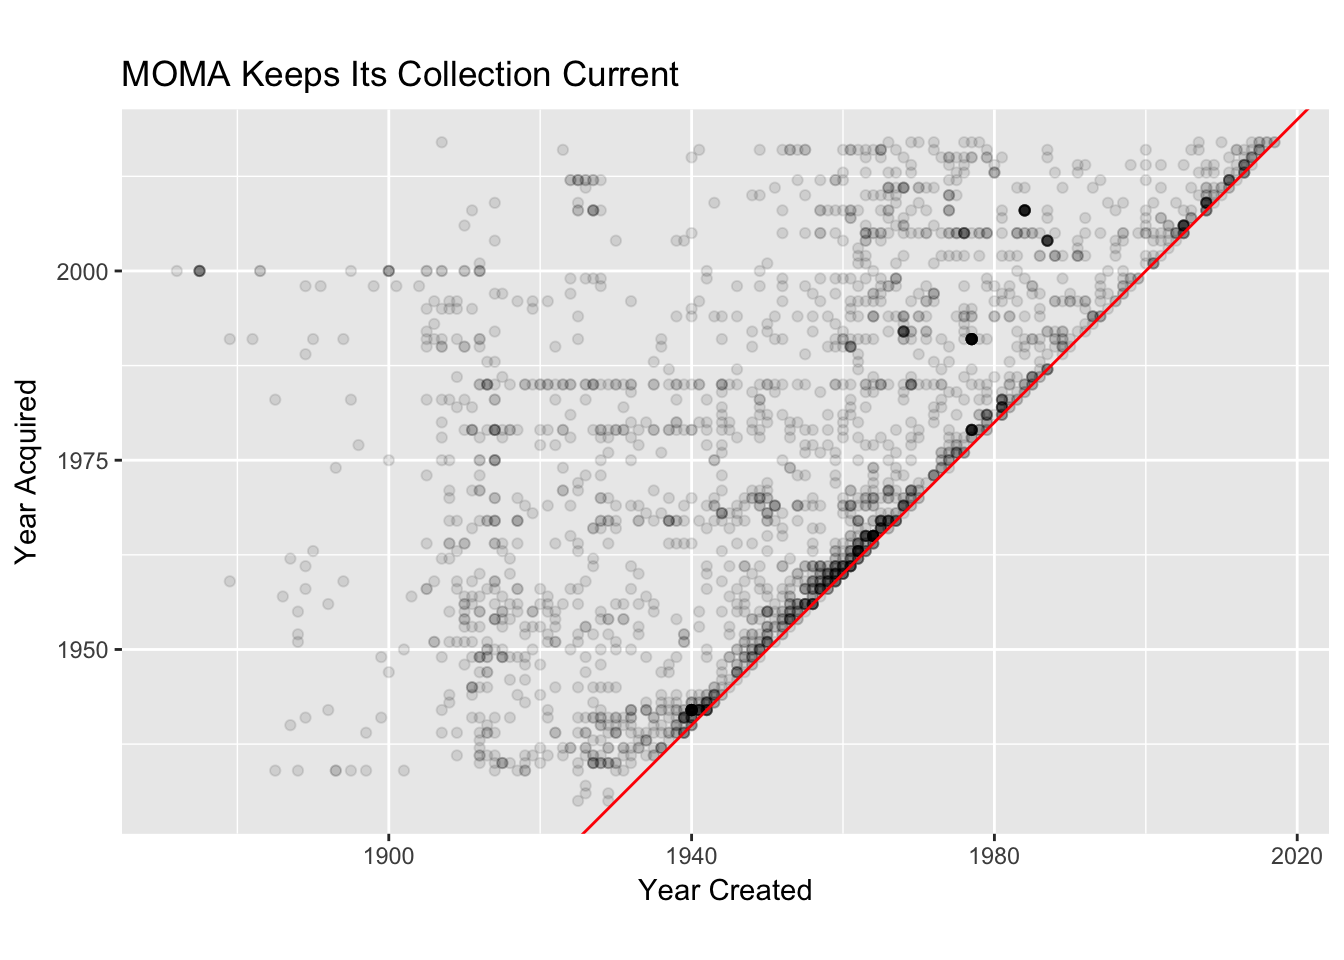
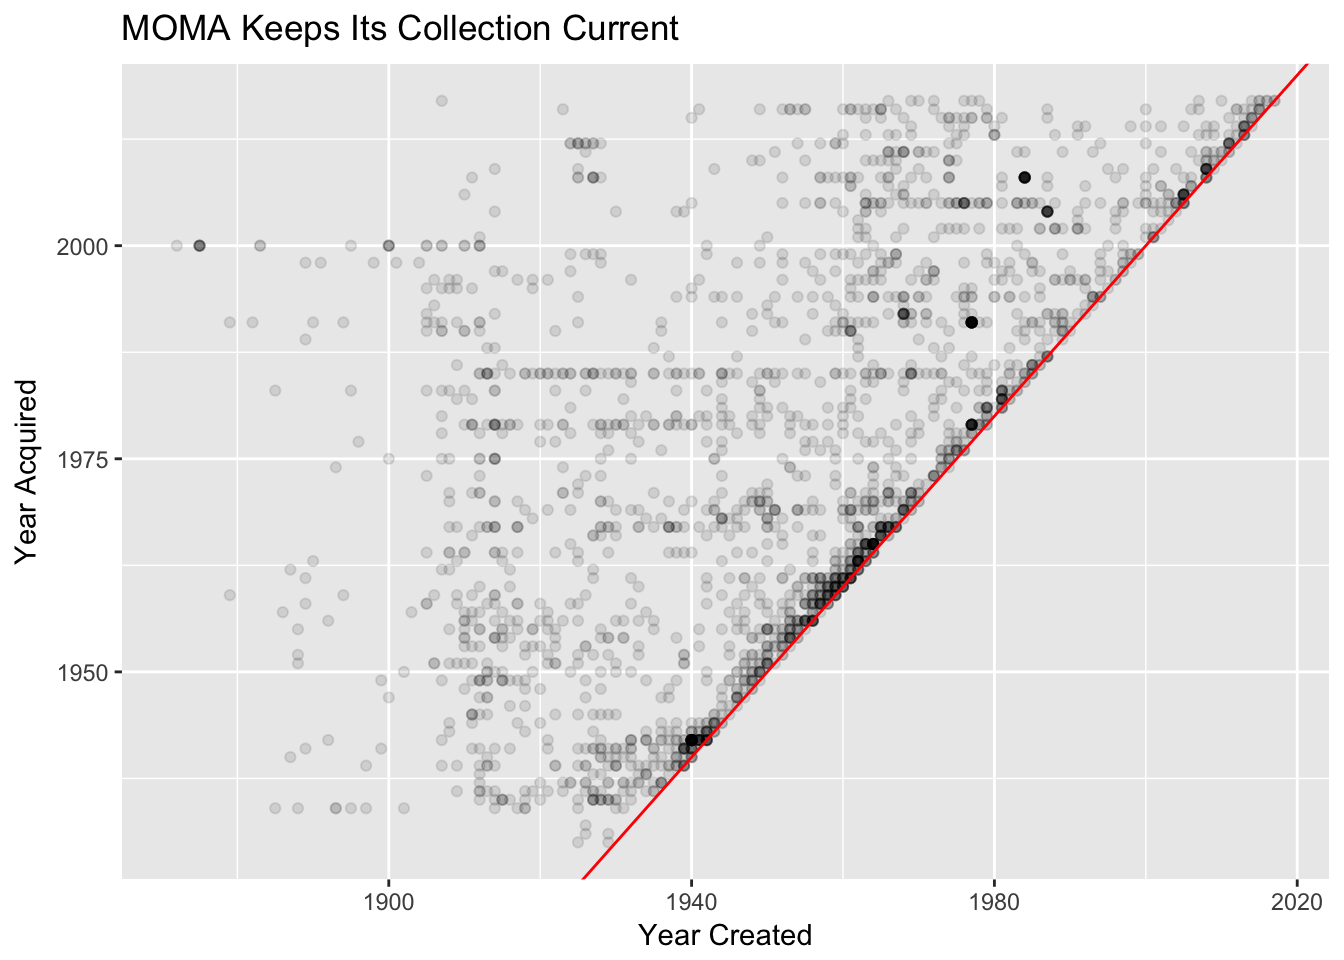
lab 02 moma final

diff --git a/02-moma.html b/02-moma.html
@@ -494,6 +494,7 @@ $ department        &lt;chr&gt; &quot;Painting &amp; Sculpture&quot;, &quot;Pain
 <ul>
 <li>How many distinct artists are there?</li>
 </ul>
+<p>Try <code>dplyr::distinct</code>.</p>
 <div class="sourceCode"><pre class="sourceCode r"><code class="sourceCode r">moma <span class="op">%&gt;%</span><span class="st"> </span>
 <span class="st">  </span><span class="kw">distinct</span>(artist)</code></pre></div>
 <pre><code># A tibble: 989 x 1
@@ -517,6 +518,7 @@ $ department        &lt;chr&gt; &quot;Painting &amp; Sculpture&quot;, &quot;Pain
 <li>Which artist has the most paintings ever owned by <code>moma</code>?</li>
 <li>How many have there been?</li>
 </ul>
+<p>Try <code>dplyr::count</code>. Use <code>?count</code> to figure out how to sort the output.</p>
 <div class="sourceCode"><pre class="sourceCode r"><code class="sourceCode r">moma <span class="op">%&gt;%</span><span class="st"> </span>
 <span class="st">  </span><span class="kw">count</span>(artist, <span class="dt">sort =</span> <span class="ot">TRUE</span>)</code></pre></div>
 <pre><code># A tibble: 989 x 2
@@ -536,6 +538,7 @@ $ department        &lt;chr&gt; &quot;Painting &amp; Sculpture&quot;, &quot;Pain
 </div>
 <div id="in-what-year-were-the-most-paintings-acquired" class="section level2">
 <h2><span class="header-section-number">5.6</span> In what year were the most paintings acquired?</h2>
+<p>Try <code>dplyr::count</code>. Use <code>?count</code> to figure out how to sort the output.</p>
 <div class="sourceCode"><pre class="sourceCode r"><code class="sourceCode r">moma <span class="op">%&gt;%</span><span class="st"> </span>
 <span class="st">  </span><span class="kw">count</span>(year_acquired, <span class="dt">sort =</span> <span class="ot">TRUE</span>)</code></pre></div>
 <pre><code># A tibble: 88 x 2
@@ -555,6 +558,7 @@ $ department        &lt;chr&gt; &quot;Painting &amp; Sculpture&quot;, &quot;Pain
 </div>
 <div id="in-what-year-were-the-most-paintings-created" class="section level2">
 <h2><span class="header-section-number">5.7</span> In what year were the most paintings created?</h2>
+<p>Try <code>dplyr::count</code>. Use <code>?count</code> to figure out how to sort the output.</p>
 <div class="sourceCode"><pre class="sourceCode r"><code class="sourceCode r">moma <span class="op">%&gt;%</span><span class="st"> </span>
 <span class="st">  </span><span class="kw">count</span>(year_created, <span class="dt">sort =</span> <span class="ot">TRUE</span>)</code></pre></div>
 <pre><code># A tibble: 139 x 2
@@ -574,6 +578,7 @@ $ department        &lt;chr&gt; &quot;Painting &amp; Sculpture&quot;, &quot;Pain
 </div>
 <div id="what-about-first-painting-by-a-solo-female-artist" class="section level2">
 <h2><span class="header-section-number">5.8</span> What about first painting by a solo female artist?</h2>
+<p>Try combining three <code>dplyr</code> functions: <code>filter</code>, <code>select</code>, and <code>arrange</code>.</p>
 <div class="sourceCode"><pre class="sourceCode r"><code class="sourceCode r">moma <span class="op">%&gt;%</span><span class="st"> </span>
 <span class="st">  </span><span class="kw">filter</span>(num_artists <span class="op">==</span><span class="st"> </span><span class="dv">1</span> <span class="op">&amp;</span><span class="st"> </span>n_female_artists <span class="op">==</span><span class="st"> </span><span class="dv">1</span>) <span class="op">%&gt;%</span><span class="st"> </span>
 <span class="st">  </span><span class="kw">select</span>(title, artist, year_acquired, year_created) <span class="op">%&gt;%</span><span class="st"> </span>
@@ -624,8 +629,7 @@ moma <span class="op">%&gt;%</span><span class="st"> </span>
 <span class="st">  </span><span class="kw">geom_point</span>(<span class="dt">alpha =</span> .<span class="dv">1</span>) <span class="op">+</span>
 <span class="st">  </span><span class="kw">geom_abline</span>(<span class="dt">intercept =</span> <span class="kw">c</span>(<span class="dv">0</span>,<span class="dv">0</span>), <span class="dt">colour =</span> <span class="st">&quot;red&quot;</span>) <span class="op">+</span>
 <span class="st">  </span><span class="kw">labs</span>(<span class="dt">x =</span> <span class="st">&quot;Year Created&quot;</span>, <span class="dt">y =</span> <span class="st">&quot;Year Acquired&quot;</span>) <span class="op">+</span>
-<span class="st">  </span><span class="kw">ggtitle</span>(<span class="st">&quot;MOMA Keeps Its Collection Current&quot;</span>) <span class="op">+</span>
-<span class="st">  </span><span class="kw">coord_fixed</span>(<span class="dt">ratio =</span> <span class="dv">1</span>)</code></pre></div>
+<span class="st">  </span><span class="kw">ggtitle</span>(<span class="st">&quot;MOMA Keeps Its Collection Current&quot;</span>) </code></pre></div>
 <p><img src="02-moma_files/figure-html/unnamed-chunk-13-1.png" width="672" /></p>
 </div>
 <div id="facet-by-artist-gender" class="section level2">
@@ -638,7 +642,6 @@ moma <span class="op">%&gt;%</span><span class="st"> </span>
 <span class="st">  </span><span class="kw">geom_abline</span>(<span class="dt">intercept =</span> <span class="kw">c</span>(<span class="dv">0</span>,<span class="dv">0</span>), <span class="dt">colour =</span> <span class="st">&quot;red&quot;</span>) <span class="op">+</span>
 <span class="st">  </span><span class="kw">labs</span>(<span class="dt">x =</span> <span class="st">&quot;Year Created&quot;</span>, <span class="dt">y =</span> <span class="st">&quot;Year Acquired&quot;</span>) <span class="op">+</span>
 <span class="st">  </span><span class="kw">ggtitle</span>(<span class="st">&quot;MOMA Keeps Its Collection Current&quot;</span>) <span class="op">+</span>
-<span class="st">  </span><span class="kw">coord_fixed</span>(<span class="dt">ratio =</span> <span class="dv">1</span>) <span class="op">+</span>
 <span class="st">  </span><span class="kw">facet_wrap</span>(<span class="op">~</span>artist_gender)</code></pre></div>
 <p><img src="02-moma_files/figure-html/unnamed-chunk-14-1.png" width="672" /></p>
 </div>
@@ -650,16 +653,29 @@ moma <span class="op">%&gt;%</span><span class="st"> </span>
 <img src="https://espnfivethirtyeight.files.wordpress.com/2015/08/roeder-feature-moma-3.png?w=1150&amp;quality=90&amp;strip=info" />
 
 </div>
-<div class="sourceCode"><pre class="sourceCode r"><code class="sourceCode r"><span class="kw">library</span>(ggplot2)
-<span class="kw">ggplot</span>(moma, <span class="kw">aes</span>(<span class="dt">x =</span> height_cm, <span class="dt">y =</span> width_cm)) <span class="op">+</span>
-<span class="st">  </span><span class="kw">geom_point</span>()</code></pre></div>
+<p>To recreate, some things to consider:</p>
+<ul>
+<li>Try filtering all paintings with height less than 600 cm and width less than 760 cm.</li>
+<li>If you want to add color as in the original, you’ll need to create a new variable using <code>mutate</code>.</li>
+<li>You’ll probably also want to look into <code>case_when</code>.</li>
+</ul>
+<div class="sourceCode"><pre class="sourceCode r"><code class="sourceCode r">moma_dim &lt;-<span class="st"> </span>moma <span class="op">%&gt;%</span><span class="st"> </span>
+<span class="st">  </span><span class="kw">filter</span>(height_cm <span class="op">&lt;</span><span class="st"> </span><span class="dv">600</span>, width_cm <span class="op">&lt;</span><span class="st"> </span><span class="dv">760</span>) <span class="op">%&gt;%</span><span class="st"> </span>
+<span class="st">  </span><span class="kw">mutate</span>(<span class="dt">hw_ratio =</span> height_cm <span class="op">/</span><span class="st"> </span>width_cm,
+         <span class="dt">hw_cat =</span> <span class="kw">case_when</span>(
+           hw_ratio <span class="op">&gt;</span><span class="st"> </span><span class="dv">1</span> <span class="op">~</span><span class="st"> &quot;taller than wide&quot;</span>,
+           hw_ratio <span class="op">&lt;</span><span class="st"> </span><span class="dv">1</span> <span class="op">~</span><span class="st"> &quot;wider than tall&quot;</span>,
+           hw_ratio <span class="op">==</span><span class="st"> </span><span class="dv">1</span> <span class="op">~</span><span class="st"> &quot;perfect square&quot;</span>
+         ))
+<span class="kw">library</span>(ggthemes)
+<span class="kw">ggplot</span>(moma_dim, <span class="kw">aes</span>(<span class="dt">x =</span> width_cm, <span class="dt">y =</span> height_cm, <span class="dt">colour =</span> hw_cat)) <span class="op">+</span>
+<span class="st">  </span><span class="kw">geom_point</span>(<span class="dt">alpha =</span> .<span class="dv">5</span>) <span class="op">+</span>
+<span class="st">  </span><span class="kw">labs</span>(<span class="dt">x =</span> <span class="st">&quot;Width&quot;</span>, <span class="dt">y =</span> <span class="st">&quot;Height&quot;</span>) <span class="op">+</span>
+<span class="st">  </span><span class="kw">ggtitle</span>(<span class="st">&quot;MOMA Paintings, Tall and Wide&quot;</span>) <span class="op">+</span>
+<span class="st">  </span><span class="kw">scale_colour_manual</span>(<span class="dt">name =</span> <span class="st">&quot;&quot;</span>,
+                      <span class="dt">values =</span> <span class="kw">c</span>(<span class="st">&quot;gray50&quot;</span>, <span class="st">&quot;#FF9900&quot;</span>, <span class="st">&quot;#B14CF0&quot;</span>)) <span class="op">+</span>
+<span class="st">  </span><span class="kw">theme_fivethirtyeight</span>()</code></pre></div>
 <p><img src="02-moma_files/figure-html/unnamed-chunk-15-1.png" width="672" /></p>
-<p>Let’s try filtering</p>
-<div class="sourceCode"><pre class="sourceCode r"><code class="sourceCode r">moma_for_size &lt;-<span class="st"> </span>moma <span class="op">%&gt;%</span><span class="st"> </span>
-<span class="st">  </span><span class="kw">filter</span>(height_cm <span class="op">&lt;</span><span class="st"> </span><span class="dv">600</span>, width_cm <span class="op">&lt;</span><span class="st"> </span><span class="dv">760</span>)
-<span class="kw">ggplot</span>(moma_for_size, <span class="kw">aes</span>(<span class="dt">x =</span> height_cm, <span class="dt">y =</span> width_cm)) <span class="op">+</span>
-<span class="st">  </span><span class="kw">geom_point</span>(<span class="dt">alpha =</span> .<span class="dv">1</span>)</code></pre></div>
-<p><img src="02-moma_files/figure-html/unnamed-chunk-16-1.png" width="672" /></p>
 </div>
 
 <p>

diff --git a/slides/02-slides.html b/slides/02-slides.html
@@ -118,7 +118,7 @@ all `ggplot2`
 
 - `aes(x = , y = )` (aesthetics)
 - `aes(x = , y = , color = )` (add color)
-- `aes(x = , y = , color = , size = )` (add size)
+- `aes(x = , y = , size = )` (add size)
 - `+ facet_wrap(~ )` (facetting)
 
 ---
@@ -210,9 +210,11 @@ ggplot(data = simple_ex, mapping = aes(x = year_created,
 
 
 ---
-# Lab 02: Challenge 3
+# Lab 02: Plotting Challenges
 
-Use `ggplot2` to make:
+Challenges 3 &amp; 4 are in the [lab](https://apreshill.github.io/data-vis-labs-2018/02-moma.html)!
+
+https://apreshill.github.io/data-vis-labs-2018/02-moma.html
     </textarea>
 <script src="https://remarkjs.com/downloads/remark-latest.min.js"></script>
 <script>var slideshow = remark.create({
